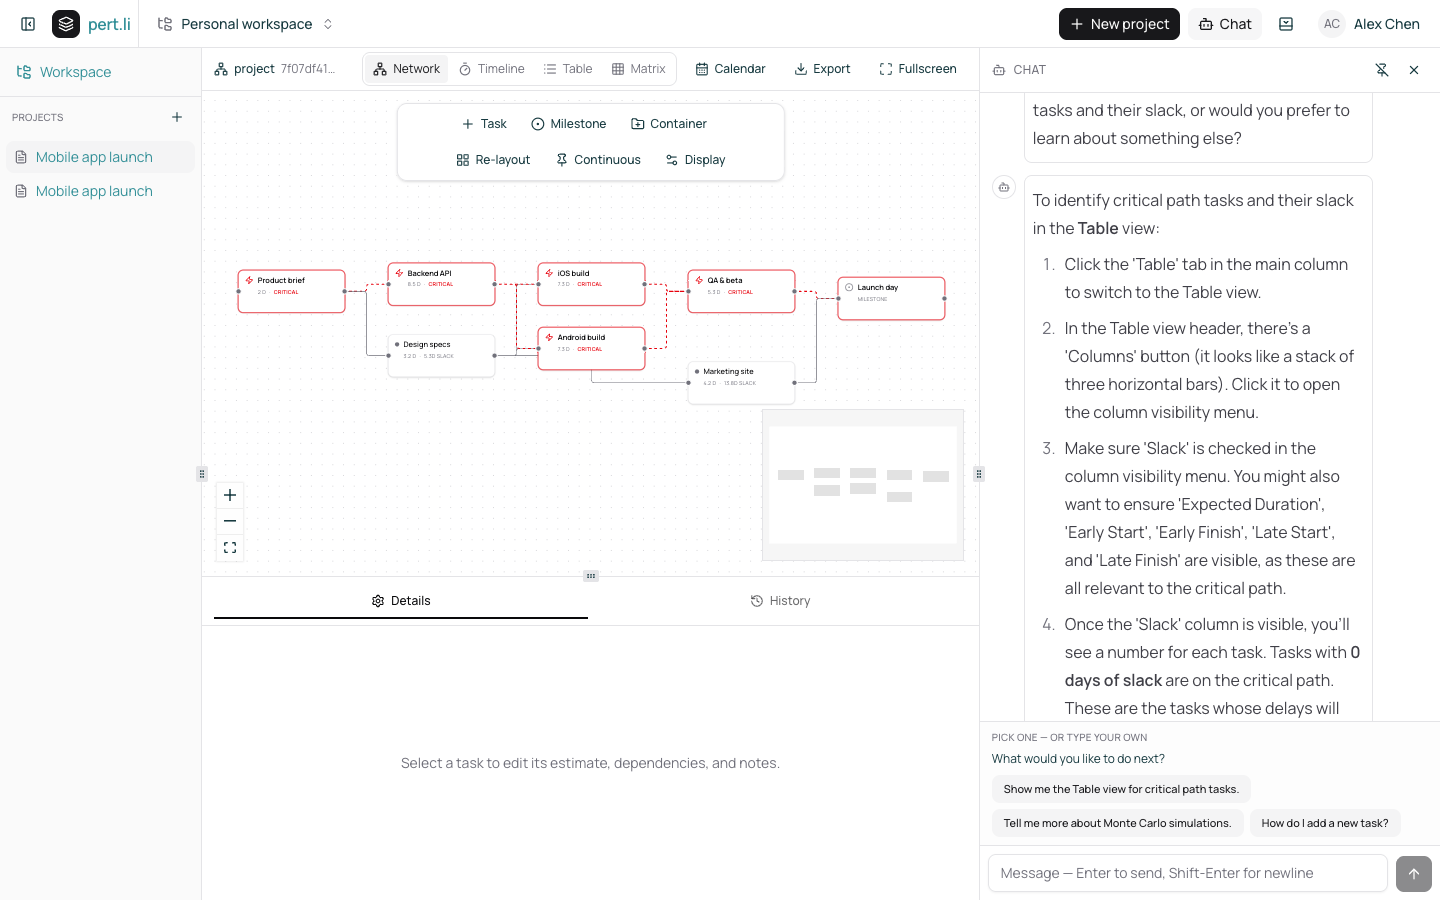
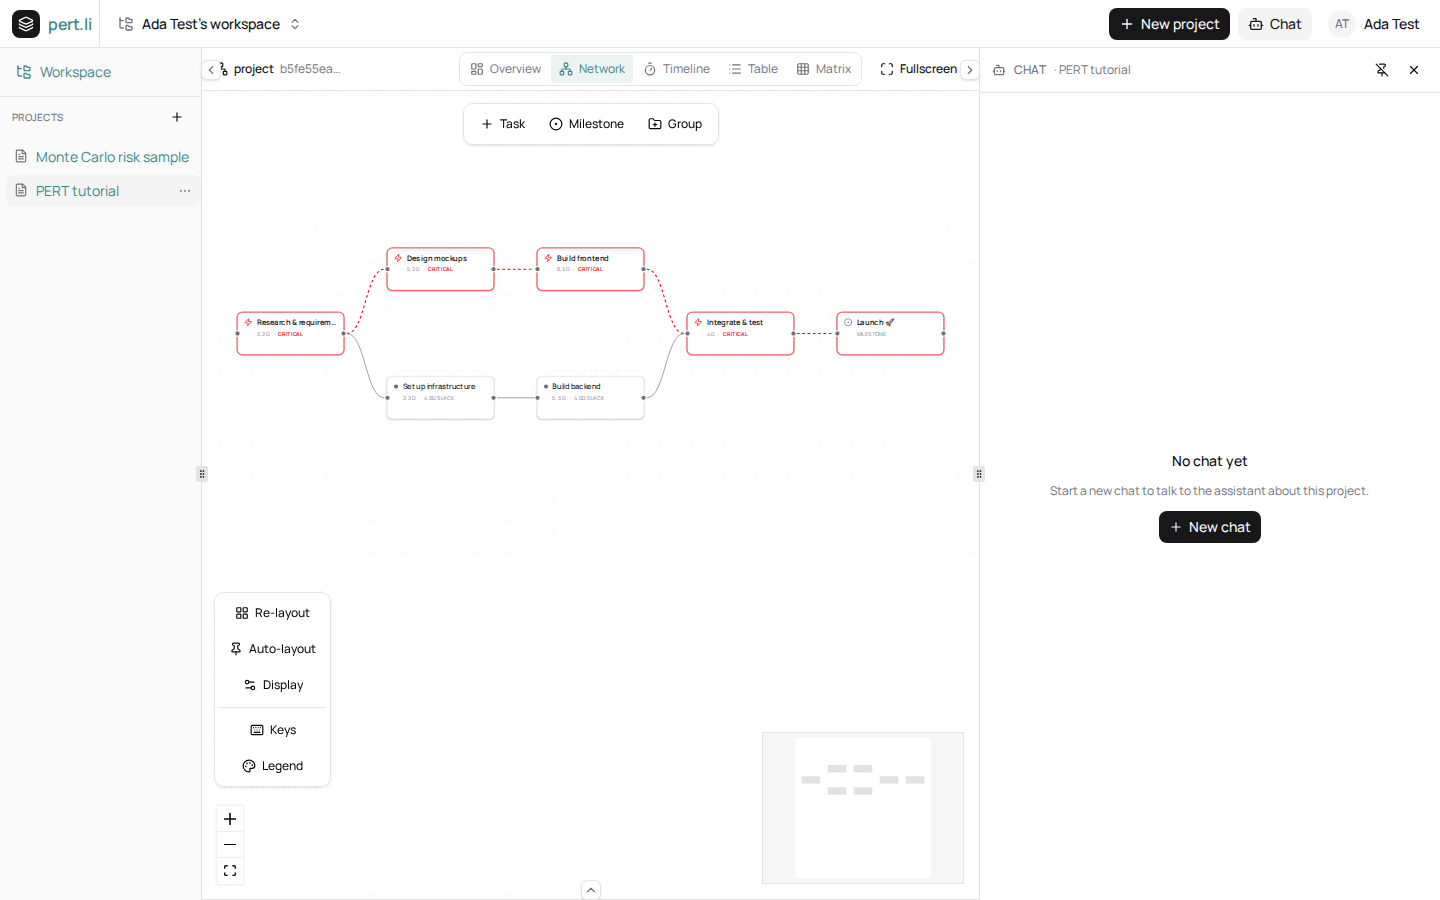
feat(docs): on-demand job to regenerate README screenshots
Add a Playwright `screenshots` project + e2e/screenshots/readme.screens.ts that
drives the real app (PGLite + auth) and writes the seven docs/screenshots/*.png
images at 1440x900. Exposed as `pnpm screenshots`; defined only when
E2E_SCREENSHOTS=1 so a plain `pnpm e2e` run never executes it.

Add .github/workflows/screenshots.yml. It runs on demand from the Actions tab,
or when a PR gets the `regenerate-screenshots` label (same-repo PRs only), renders
against the production build, and commits the refreshed images directly: onto the
PR's branch for a labelled PR (updating its diff in place), or to
chore/regenerate-screenshots with a compare link for a manual run. Commits via
GITHUB_TOKEN, so it doesn't depend on the "Allow GitHub Actions to create and
approve pull requests" setting.

Also refreshes the committed screenshots to the current UI.

diff --git a/e2e/screenshots/readme.screens.ts b/e2e/screenshots/readme.screens.ts
@@ -1,0 +1,150 @@
+// README screenshot renderer — NOT a regression test.
+//
+// Drives the real app (PGLite + auth via the `screenshots` Playwright project,
+// see playwright.config.ts) and writes the seven 1440×900 images the README
+// embeds from docs/screenshots/. Run with `pnpm screenshots`; regenerated in CI
+// by .github/workflows/screenshots.yml, which commits the refreshed images back
+// (onto a labelled PR's branch, or to chore/regenerate-screenshots on dispatch).
+//
+// These produce binary artifacts rather than assert behaviour, so they live
+// outside the normal `pnpm e2e` suite (the other projects ignore this dir) and
+// use plain @playwright/test — console-cleanliness gates don't apply to a
+// rendering job. The view shots all run inside a single test so the freshly
+// created project's in-memory Automerge doc survives across the tabs (a full
+// reload would drop it while sync is disabled in e2e).
+
+import { mkdir } from "node:fs/promises";
+import { expect, type Page, test } from "@playwright/test";
+import { COOKIE_HINT_KEY } from "../fixtures";
+
+const OUT_DIR = "docs/screenshots";
+
+// `animations: "disabled"` finishes in-flight CSS transitions/animations and
+// freezes them, so the fit-view pan and hover states don't smear the capture.
+async function shot(page: Page, name: string) {
+	await page.screenshot({
+		path: `${OUT_DIR}/${name}.png`,
+		animations: "disabled",
+	});
+}
+
+// Switch to a view tab and wait for the network canvas to finish its
+// mount-time fitView before capturing. Positions are pre-laid in the sample, so
+// ELK isn't invoked and the layout is deterministic. The mouse is parked off the
+// canvas so no node shows a hover state in the shot.
+async function showNetwork(page: Page) {
+	await page.getByTestId("view-tab-network").click();
+	await expect(page.locator(".react-flow__node")).toHaveCount(7, {
+		timeout: 15_000,
+	});
+	await page.mouse.move(4, 4);
+	await page.waitForTimeout(800);
+}
+
+test("render authed README screenshots", async ({ page, context }) => {
+	await mkdir(OUT_DIR, { recursive: true });
+	// Pre-dismiss the cookie hint so it never overlays the chrome.
+	await context.addInitScript((key) => {
+		window.localStorage.setItem(key, "1");
+	}, COOKIE_HINT_KEY);
+	// Hide the "N pending sync" topbar badge. It's a pure e2e artifact: there's
+	// no sync server in this harness, so seeded/created projects never finish
+	// registering and the badge sticks — it would not show in real use. Cosmetic
+	// hide only, applied on every navigation.
+	await context.addInitScript(() => {
+		const css = '[data-testid="sync-status-trigger"]{display:none !important}';
+		const add = () => {
+			const s = document.createElement("style");
+			s.textContent = css;
+			document.head.appendChild(s);
+		};
+		if (document.head) add();
+		else document.addEventListener("DOMContentLoaded", add);
+	});
+
+	// Empty workspace → the first visit auto-seeds exactly two sample projects:
+	// "PERT tutorial" and "Monte Carlo risk sample". They land in the in-memory
+	// collection immediately, so opening one via client-side nav keeps its doc
+	// materialized (a full reload would drop it while sync is disabled in e2e).
+	await page.goto("/");
+	await expect(page.getByText("PERT tutorial").first()).toBeVisible({
+		timeout: 15_000,
+	});
+	await expect(page.getByText("Monte Carlo risk sample").first()).toBeVisible({
+		timeout: 15_000,
+	});
+	await page.waitForTimeout(300);
+	await shot(page, "workspace");
+
+	// Open the tutorial project — its 7-task critical path is the data shown in
+	// every view shot. Stay on this page (client-side tab nav only) afterwards.
+	await page.getByRole("link", { name: "PERT tutorial" }).first().click();
+	await page.waitForURL(/\/p\/[^/]+/, { timeout: 15_000 });
+
+	// Collapse the shell bottom panel (the empty task inspector) so the views
+	// get the full canvas height — matches the README's full-bleed framing.
+	await page.getByTestId("panel-toggle-bottom").click();
+
+	// Network canvas.
+	await showNetwork(page);
+	await shot(page, "network");
+
+	// Timeline / Table / Matrix — deterministic (no ELK).
+	await page.getByTestId("view-tab-timeline").click();
+	await expect(page.getByText("Build frontend")).toBeVisible({
+		timeout: 10_000,
+	});
+	await page.waitForTimeout(300);
+	await shot(page, "timeline");
+
+	await page.getByTestId("view-tab-table").click();
+	await expect(page.getByText("Build frontend")).toBeVisible({
+		timeout: 10_000,
+	});
+	await page.waitForTimeout(300);
+	await shot(page, "table");
+
+	await page.getByTestId("view-tab-matrix").click();
+	// Wait for the matrix to actually render (task labels fill the row headers)
+	// rather than trusting a bare timeout, so a slow render can't capture a
+	// partial grid.
+	await expect(page.getByText("Build frontend").first()).toBeVisible({
+		timeout: 10_000,
+	});
+	await page.waitForTimeout(300);
+	await shot(page, "matrix");
+
+	// AI co-planner — network canvas with the chat dock pinned beside it.
+	await showNetwork(page);
+	await page.getByTestId("topbar-chat-trigger").click();
+	const pin = page.getByTestId("chat-pin-toggle");
+	await expect(pin).toBeVisible({ timeout: 10_000 });
+	await pin.click();
+	// Pinning the chat re-expands the shell bottom panel; collapse it again so
+	// the shot is a clean canvas-beside-chat layout. Only click when the panel is
+	// actually expanded (button reads "Hide details panel") — that way a genuine
+	// click failure still fails the run instead of being swallowed.
+	const hideDetails = page.getByRole("button", { name: "Hide details panel" });
+	if (await hideDetails.isVisible()) await hideDetails.click();
+	await page.waitForTimeout(800);
+	await shot(page, "chat");
+});
+
+test.describe("welcome", () => {
+	// Unauthenticated — the marketing on-ramp at /welcome.
+	test.use({ storageState: { cookies: [], origins: [] } });
+
+	test("render the welcome screenshot", async ({ page, context }) => {
+		await mkdir(OUT_DIR, { recursive: true });
+		await context.addInitScript((key) => {
+			window.localStorage.setItem(key, "1");
+		}, COOKIE_HINT_KEY);
+
+		await page.goto("/welcome");
+		await expect(
+			page.getByRole("heading", { name: "Plan something nested.", level: 1 }),
+		).toBeVisible({ timeout: 10_000 });
+		await page.waitForTimeout(300);
+		await shot(page, "welcome");
+	});
+});

diff --git a/playwright.config.ts b/playwright.config.ts
@@ -85,6 +85,25 @@ export default defineConfig({
 			testMatch: /authed\/mobile\/.*\.spec\.ts$/,
 			dependencies: ["setup"],
 		},
+		// README screenshot renderer — only defined under `pnpm screenshots`
+		// (which sets E2E_SCREENSHOTS=1). Kept out of the default project list so
+		// a plain `pnpm e2e` run never executes it and overwrites the committed
+		// PNGs. Runs authed (same setup user) at the 1440×900 viewport the README
+		// images use, writing into docs/screenshots/.
+		...(process.env.E2E_SCREENSHOTS === "1"
+			? [
+					{
+						name: "screenshots",
+						use: {
+							...devices["Desktop Chrome"],
+							viewport: { width: 1440, height: 900 },
+							storageState: STORAGE_STATE,
+						},
+						testMatch: /screenshots\/.*\.screens\.ts$/,
+						dependencies: ["setup"],
+					},
+				]
+			: []),
 	],
 	webServer: {
 		// E2E_USE_BUILD=1 swaps the dev server for `node .output/server/index.mjs`
@@ -137,6 +156,17 @@ export default defineConfig({
 			// sign-up POST from /signin is accepted.
 			BETTER_AUTH_URL: `http://localhost:${E2E_PORT}`,
 			PORT: String(E2E_PORT),
+			// Screenshot runs (`pnpm screenshots`, which sets E2E_SCREENSHOTS=1)
+			// hand the server a placeholder key so the chat dock renders its
+			// normal, provider-ready chrome for chat.png. Gated so the regular
+			// `pnpm e2e` suite keeps running with no provider configured. No real
+			// requests are made — the renderer only screenshots the dock.
+			...(process.env.E2E_SCREENSHOTS === "1"
+				? {
+						ANTHROPIC_API_KEY:
+							process.env.ANTHROPIC_API_KEY ?? "sk-screenshots-placeholder",
+					}
+				: {}),
 		},
 	},
 });
